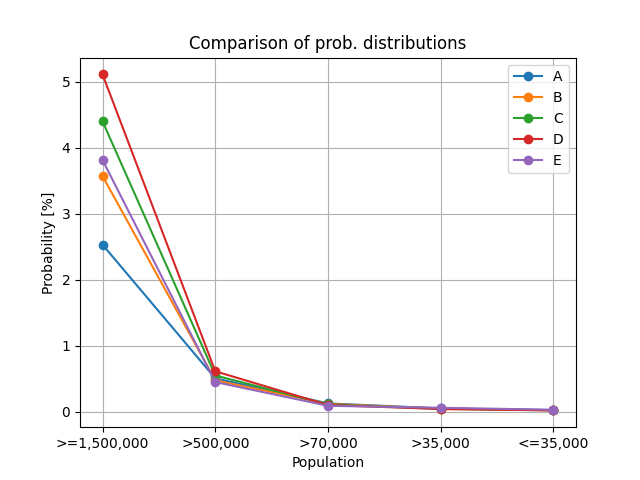
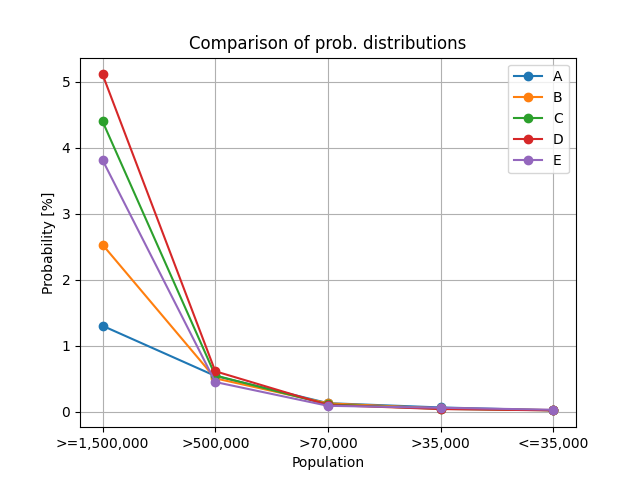
Add files via upload

diff --git a/src/generate_nml.py b/src/generate_nml.py
@@ -42,13 +42,13 @@ def create_nml_line(data):
     probability = 1
     # Adjust probabilities based on population
     if pop >= 1500000:
-        probability = 127
+        probability = 60
     elif pop > 500000:
-        probability = 15
+        probability = 25
     elif pop > 70000:
-        probability = 3
+        probability = 6
     elif pop > 35000:
-        probability = 2
+        probability = 3
 
     if name == list(sorted_dict_of_town_names.keys())[-1]:
         return "        text(\"" + name + "\", " + str(probability) + ")"

diff --git a/src/prob_distribution_test.py b/src/prob_distribution_test.py
@@ -1,8 +1,8 @@
 import matplotlib.pyplot as plt
 import pprint
 
-option_A = 5*[100] + 19*[20] + 330*[5] + 431*[2] + 556*[1]
-option_B = 5*[150] + 19*[20] + 330*[5] + 431*[2] + 556*[1]
+option_A = 5*[60] + 19*[25] + 330*[6] + 431*[3] + 556*[1]
+option_B = 5*[100] + 19*[20] + 330*[5] + 431*[2] + 556*[1]
 option_C = 5*[200] + 19*[25] + 330*[5] + 431*[2] + 556*[1]
 option_D = 5*[250] + 19*[30] + 330*[5] + 431*[2] + 556*[1]
 option_E = 5*[127] + 19*[15] + 330*[3] + 431*[2] + 556*[1]
